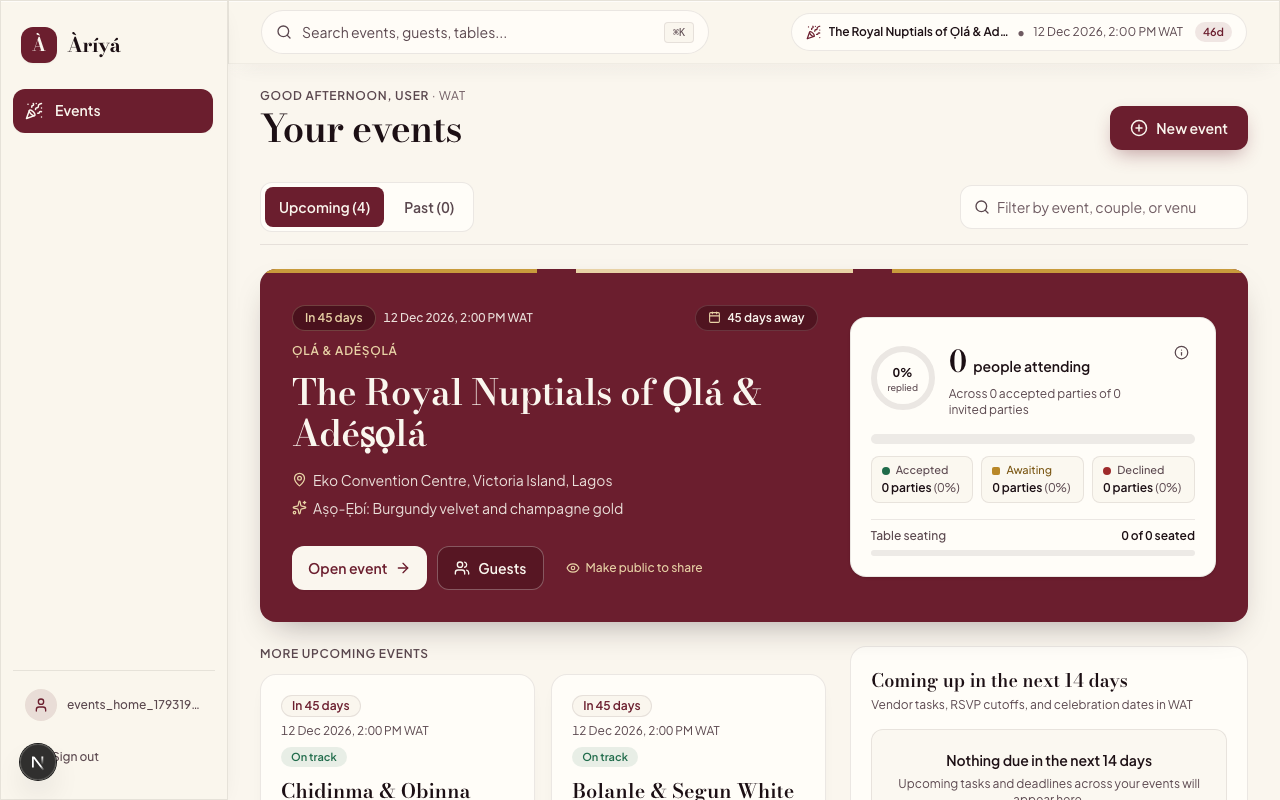
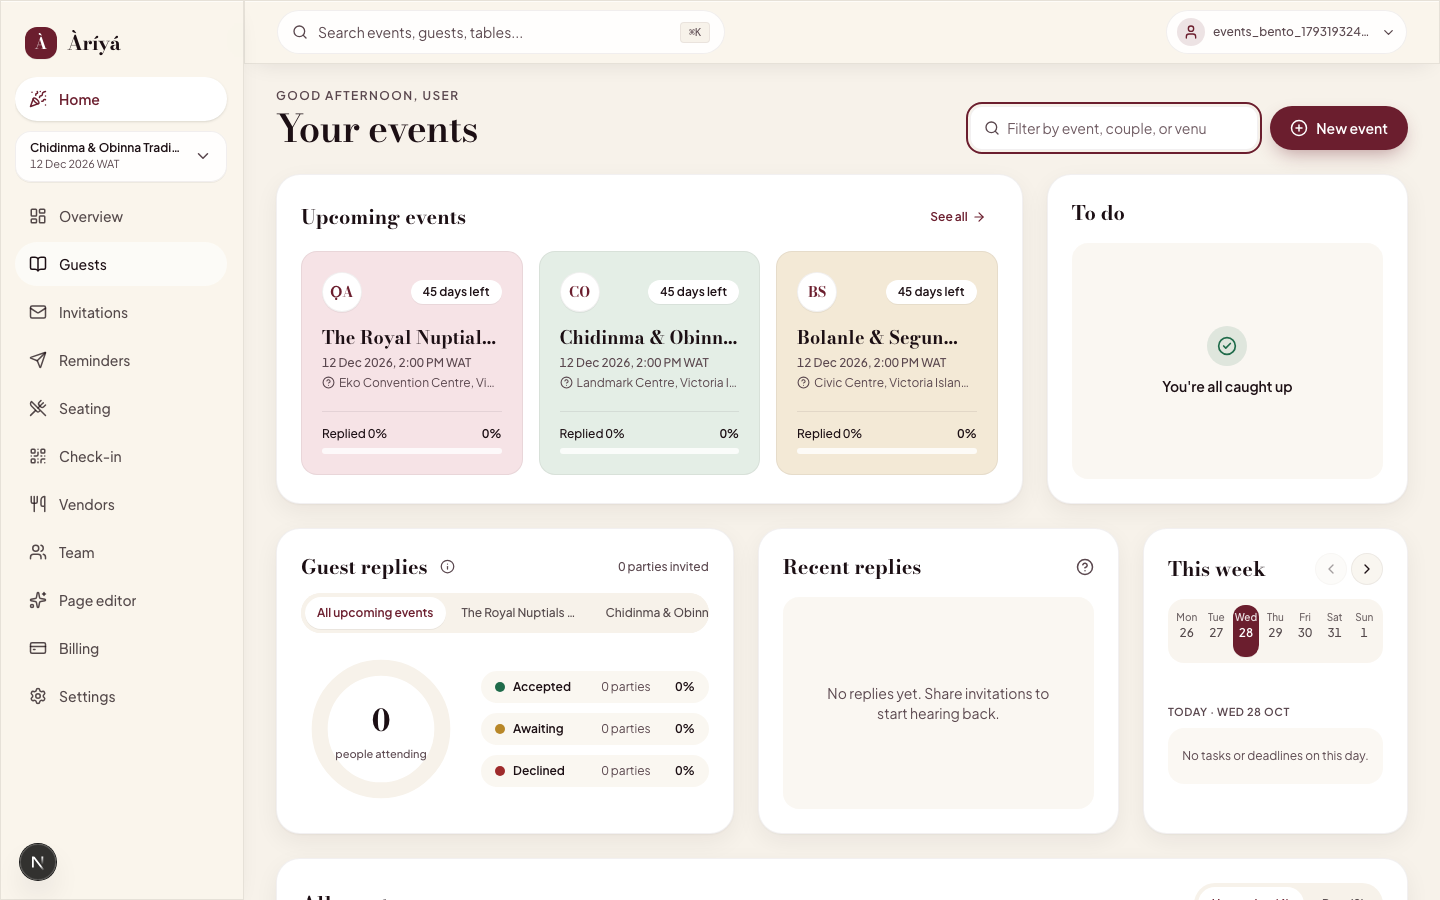
test(e2e): update events-home e2e assertions and capture 1440px/390px bento screenshots

diff --git a/e2e/events-home.spec.ts b/e2e/events-home.spec.ts
@@ -4,13 +4,13 @@ import { createAndLoginUser, createTestEvent } from "./fixtures/test-helpers";
 
 const WCAG_TAGS = ["wcag2a", "wcag2aa", "wcag21a", "wcag21aa", "wcag22aa"];
 
-test.describe("My Events Home (/events) & Liquid Glass Navigation Shell", () => {
-  test("empty state (0 events), populated state, search threshold (<=3 vs >3), and navigation at 1280x800 and 390x844", async ({
+test.describe("My Events Bento Dashboard (/events) & Glass Navigation Shell", () => {
+  test("empty, single-event, and populated states with event switcher, phone sheet, donut metrics, and Axe AA at 1440px and 390px", async ({
     page,
     context,
   }) => {
-    await page.setViewportSize({ width: 1280, height: 800 });
-    await createAndLoginUser(page, context, "events_home");
+    await page.setViewportSize({ width: 1440, height: 900 });
+    await createAndLoginUser(page, context, "events_bento");
 
     // 1. Empty state (0 events)
     await page.goto("/events");
@@ -18,17 +18,29 @@ test.describe("My Events Home (/events) & Liquid Glass Navigation Shell", () => 
     await expect(page.getByTestId("events-greeting")).toContainText(
       /Good (morning|afternoon|evening)/i
     );
-    const emptyState = page.getByTestId("events-empty-state");
+
+    const emptyState = page.getByTestId("empty-events-state");
     await expect(emptyState).toBeVisible();
     await expect(
-      emptyState.getByRole("heading", { name: /Plan your first celebration/i })
+      emptyState.getByRole("heading", { name: /Plan your first àríyá/i })
     ).toBeVisible();
-    const emptyCta = emptyState.getByRole("link", {
-      name: /Create your first event/i,
-    });
-    await expect(emptyCta).toHaveAttribute("href", "/events/new");
+    await expect(page.getByTestId("empty-step-1")).toContainText(
+      "Create event"
+    );
+    await expect(page.getByTestId("empty-step-2")).toContainText("Add guests");
+    await expect(page.getByTestId("empty-step-3")).toContainText(
+      "Send invitations"
+    );
 
-    // Accessibility check on empty state (1280x800)
+    // Sidebar shows Home + disabled "Create your first event" hint when 0 events
+    const sidebar = page.getByTestId("desktop-sidebar");
+    await expect(sidebar).toBeVisible();
+    await expect(sidebar.getByRole("link", { name: "Home" })).toBeVisible();
+    await expect(page.getByTestId("event-switcher-empty")).toContainText(
+      "Create your first event"
+    );
+
+    // Accessibility check on empty state (1440x900)
     const emptyAxe = await new AxeBuilder({ page })
       .withTags(WCAG_TAGS)
       .analyze();
@@ -42,10 +54,10 @@ test.describe("My Events Home (/events) & Liquid Glass Navigation Shell", () => 
       await page.screenshot({
         path: "docs/screenshots/events-home-empty-mobile.png",
       });
-      await page.setViewportSize({ width: 1280, height: 800 });
+      await page.setViewportSize({ width: 1440, height: 900 });
     }
 
-    // 2. Create 1st event -> populated state (<= 3 events -> search hidden)
+    // 2. Single-event state (1 event)
     const event1 = await createTestEvent(page, {
       couple: "Ọlá & Adéṣọlá",
       title: "The Royal Nuptials of Ọlá & Adéṣọlá",
@@ -54,33 +66,66 @@ test.describe("My Events Home (/events) & Liquid Glass Navigation Shell", () => 
 
     await page.goto("/events");
     await expect(page.locator("h1")).toHaveText("Your events");
-    await expect(page.getByTestId("tab-upcoming")).toContainText(
-      "Upcoming (1)"
-    );
-    await expect(page.getByTestId("tab-past")).toContainText("Past (0)");
 
-    // Search must be hidden with <= 3 events
+    // Sidebar now shows EventSwitcher and all 11 event sections
+    await expect(page.getByTestId("event-switcher-current-title")).toHaveText(
+      event1.title
+    );
+    const sectionsContainer = page.getByTestId("sidebar-event-sections");
+    await expect(sectionsContainer).toBeVisible();
+    for (const sectionName of [
+      "Overview",
+      "Guests",
+      "Invitations",
+      "Reminders",
+      "Seating",
+      "Check-in",
+      "Vendors",
+      "Team",
+      "Page editor",
+      "Billing",
+      "Settings",
+    ]) {
+      await expect(
+        sectionsContainer.getByRole("link", { name: sectionName, exact: true })
+      ).toBeVisible();
+    }
+
+    // Single-event tile shows Seating mini progress and hides All Events table (only 1 event)
+    await expect(
+      page.getByTestId(`upcoming-event-tile-${event1.eventId}`)
+    ).toBeVisible();
+    await expect(
+      page.getByTestId("single-event-seating-progress")
+    ).toContainText(/0 of 0 seated/i);
+    await expect(page.getByTestId("all-events-card")).toHaveCount(0);
     await expect(page.getByTestId("events-search")).toHaveCount(0);
 
-    // Hero card assertions: WAT date + countdown + RSVP breakdown + Open event CTA
-    const heroCard = page.getByTestId("hero-event-card");
-    await expect(heroCard).toBeVisible();
-    await expect(heroCard).toContainText(event1.title);
-    await expect(heroCard).toContainText(/WAT/);
-    await expect(page.getByTestId("hero-rsvp-panel")).toBeVisible();
-    await expect(page.getByTestId("hero-rsvp-panel")).toContainText(
-      /people attending|person attending/i
+    // Donut numbers match metrics (0 attending, 0% accepted/awaiting/declined)
+    await expect(page.getByTestId("donut-attending-count")).toContainText("0");
+    await expect(page.getByTestId("donut-legend-accepted")).toContainText(
+      "0 parties"
+    );
+    await expect(page.getByTestId("donut-legend-awaiting")).toContainText(
+      "0 parties"
+    );
+    await expect(page.getByTestId("donut-legend-declined")).toContainText(
+      "0 parties"
     );
 
-    // Coming up section visible
-    await expect(page.getByTestId("coming-up-section")).toBeVisible();
+    if (process.env.CAPTURE_SCREENSHOTS === "1") {
+      await page.screenshot({
+        path: "docs/screenshots/events-home-single-desktop.png",
+      });
+      await page.setViewportSize({ width: 390, height: 844 });
+      await page.screenshot({
+        path: "docs/screenshots/events-home-single-mobile.png",
+      });
+      await page.setViewportSize({ width: 1440, height: 900 });
+    }
 
-    // Clicking "Open event" navigates to /events/<id>
-    await heroCard.getByRole("link", { name: /^Open event$/i }).click();
-    await expect(page).toHaveURL(new RegExp(`/events/${event1.eventId}$`));
-
-    // 3. Create 3 more events (total 4 > 3) to trigger search threshold
-    await createTestEvent(page, {
+    // 3. Populated state (4 events > 3 -> search visible, All events table visible)
+    const event2 = await createTestEvent(page, {
       couple: "Chidinma & Obinna",
       title: "Chidinma & Obinna Traditional Engagement",
       venue: "Landmark Centre",
@@ -97,34 +142,33 @@ test.describe("My Events Home (/events) & Liquid Glass Navigation Shell", () => 
     });
 
     await page.goto("/events");
+    await expect(page.getByTestId("all-events-card")).toBeVisible();
     await expect(page.getByTestId("tab-upcoming")).toContainText(
       "Upcoming (4)"
     );
+    await expect(page.getByTestId("tab-past")).toContainText("Past (0)");
 
-    // Search input is now visible (> 3 events)
+    // Event switcher changes the sidebar links to the chosen event
+    await page.getByTestId("event-switcher-trigger").click();
+    await page.getByTestId(`event-switcher-option-${event2.eventId}`).click();
+    await expect(page.getByTestId("event-switcher-current-title")).toHaveText(
+      event2.title
+    );
+    await expect(
+      sectionsContainer.getByRole("link", { name: "Guests", exact: true })
+    ).toHaveAttribute("href", `/events/${event2.eventId}/guests`);
+
+    // Search input (> 3 events) filters events diacritic-insensitively
     const searchBox = page.getByTestId("events-search");
     await expect(searchBox).toBeVisible();
     const searchInput = searchBox.locator("input");
-
-    // Live diacritic-insensitive filtering ("Adesola" matches "Adéṣọlá")
     await searchInput.fill("Adesola");
-    await expect(page.getByTestId("hero-event-card")).toContainText(
-      "Ọlá & Adéṣọlá"
-    );
-    await expect(page.getByTestId("event-card")).toHaveCount(0);
+    await expect(
+      page.getByTestId(`upcoming-event-tile-${event1.eventId}`)
+    ).toBeVisible();
+    await searchInput.fill("");
 
-    // No-match shows "Clear search" and resets
-    await searchInput.fill("Nonexistent Venue XYZ");
-    const noResults = page.getByTestId("events-no-results");
-    await expect(noResults).toBeVisible();
-    await expect(noResults).toContainText(
-      'No events match "Nonexistent Venue XYZ"'
-    );
-    await noResults.getByRole("button", { name: /Clear search/i }).click();
-    await expect(searchInput).toHaveValue("");
-    await expect(page.getByTestId("hero-event-card")).toBeVisible();
-
-    // 4. Accessibility scan at 1280x800 (populated)
+    // 4. Axe WCAG 2.2 AA scan at 1440px (populated)
     const desktopAxe = await new AxeBuilder({ page })
       .withTags(WCAG_TAGS)
       .analyze();
@@ -136,12 +180,17 @@ test.describe("My Events Home (/events) & Liquid Glass Navigation Shell", () => 
       });
     }
 
-    // 5. Phone viewport (390x844): bottom glass tab bar visible, desktop sidebar hidden,
-    //    floating "New event" button visible, zero horizontal scroll, and Axe scan clean
+    // 5. Phone viewport (390x844): floating glass bottom bar with 4 items (Home, Guests, Check-in, More)
     await page.setViewportSize({ width: 390, height: 844 });
-    await expect(page.getByTestId("phone-tab-bar")).toBeVisible();
+    const phoneBar = page.getByTestId("phone-tab-bar");
+    await expect(phoneBar).toBeVisible();
     await expect(page.getByTestId("desktop-sidebar")).toBeHidden();
     await expect(page.getByTestId("floating-new-event")).toBeVisible();
+    await expect(phoneBar.getByRole("link", { name: "Home" })).toBeVisible();
+    await expect(phoneBar.getByRole("link", { name: "Guests" })).toBeVisible();
+    await expect(
+      phoneBar.getByRole("link", { name: "Check-in" })
+    ).toBeVisible();
 
     if (process.env.CAPTURE_SCREENSHOTS === "1") {
       await page.screenshot({
@@ -149,20 +198,20 @@ test.describe("My Events Home (/events) & Liquid Glass Navigation Shell", () => 
       });
     }
 
-    const hasHorizontalOverflow = await page.evaluate(
-      () => document.documentElement.scrollWidth > window.innerWidth
-    );
-    expect(hasHorizontalOverflow).toBe(false);
-
+    // Axe WCAG 2.2 AA scan at 390px
     const mobileAxe = await new AxeBuilder({ page })
       .withTags(WCAG_TAGS)
       .analyze();
     expect(mobileAxe.violations).toEqual([]);
 
-    // 6. Reduced motion: page renders cleanly
-    await page.emulateMedia({ reducedMotion: "reduce" });
-    await page.reload();
-    await expect(page.locator("h1")).toHaveText("Your events");
-    await expect(page.getByTestId("hero-event-card")).toBeVisible();
+    // Clicking "More" opens the sheet with remaining sections and event switcher
+    await page.getByTestId("phone-more-button").click();
+    const moreSheet = page.getByTestId("phone-more-sheet");
+    await expect(moreSheet).toBeVisible();
+    await expect(
+      page.getByTestId("phone-more-sections").getByRole("link", {
+        name: "Seating",
+      })
+    ).toBeVisible();
   });
 });
